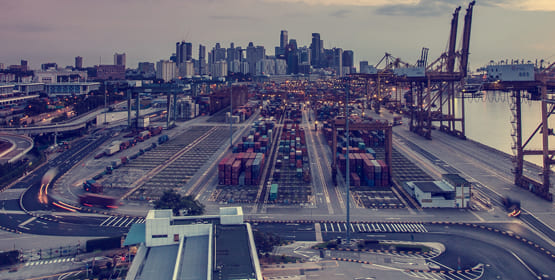
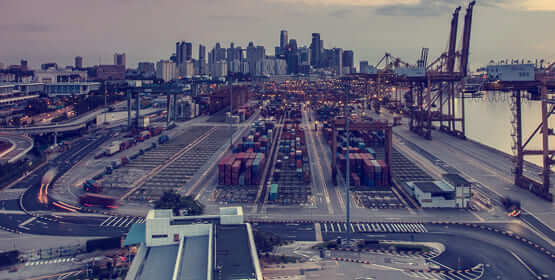
Compress images

diff --git a/css/style.css b/css/style.css
@@ -172,7 +172,7 @@ main .site-title {
   height: 110vh;
   display: flex;
   justify-content: center;
-  background: url('../assets/Background-image.png');
+  background: url('../assets/background-image.png');
   background-size: cover;
 }
 
